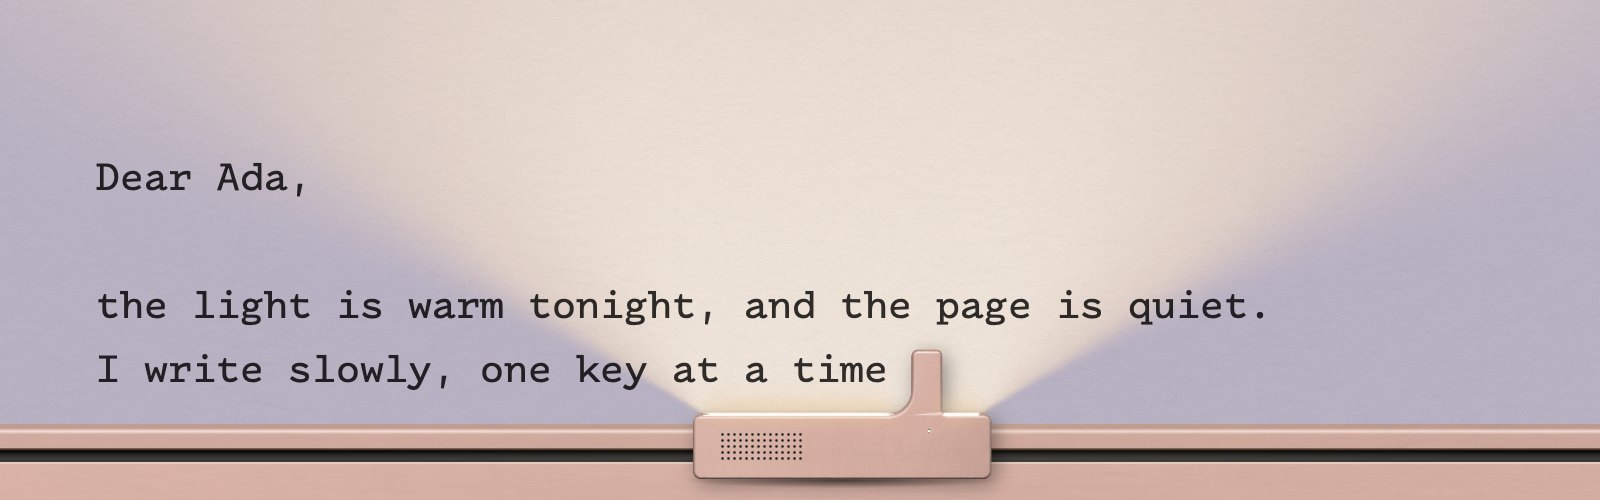
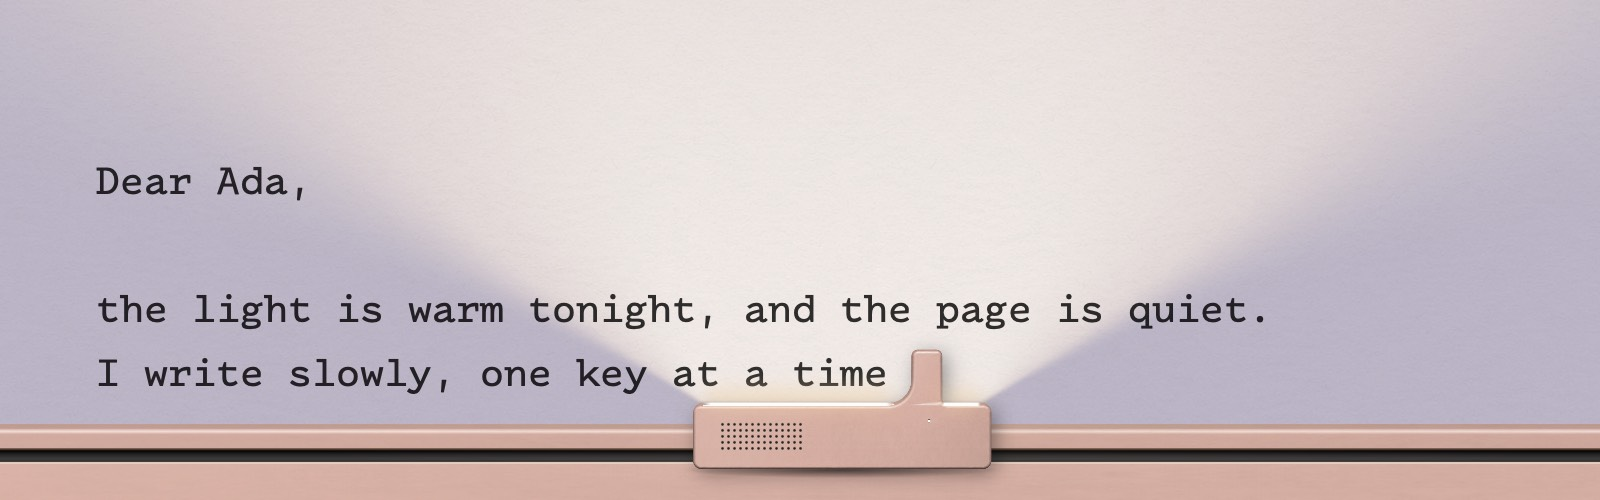
docs(website): new screenshots with the shorter fin; the hero page shows the Owen Earl quote

diff --git a/docs/index.html b/docs/index.html
@@ -199,7 +199,7 @@
       <a class="btn ghost" href="https://github.com/fgnass/typewriter">Source on GitHub</a>
     </div>
     <div class="req">Free · macOS 13 or later · Apple silicon</div>
-    <div class="mac"><div class="lid"><div class="bezel"><img src="img/page.jpg" width="1800" height="1125" alt="The whole screen is a sheet of paper. Three lines of typewriter text sit above a rose gold rail. A small carriage on the rail throws a warm cone of light onto the last line."></div></div><div class="base"></div></div>
+    <div class="mac"><div class="lid"><div class="bezel"><img src="img/page.jpg" width="1800" height="1125" alt="The whole screen is a sheet of paper. On it, typed in a typewriter face, a quote by Owen Earl about the spirit of typewriters, and two empty lines below it. A small rose gold carriage at the left end of the rail throws a warm cone of light up the page."></div></div><div class="base"></div></div>
   </header>
 
   <section>
